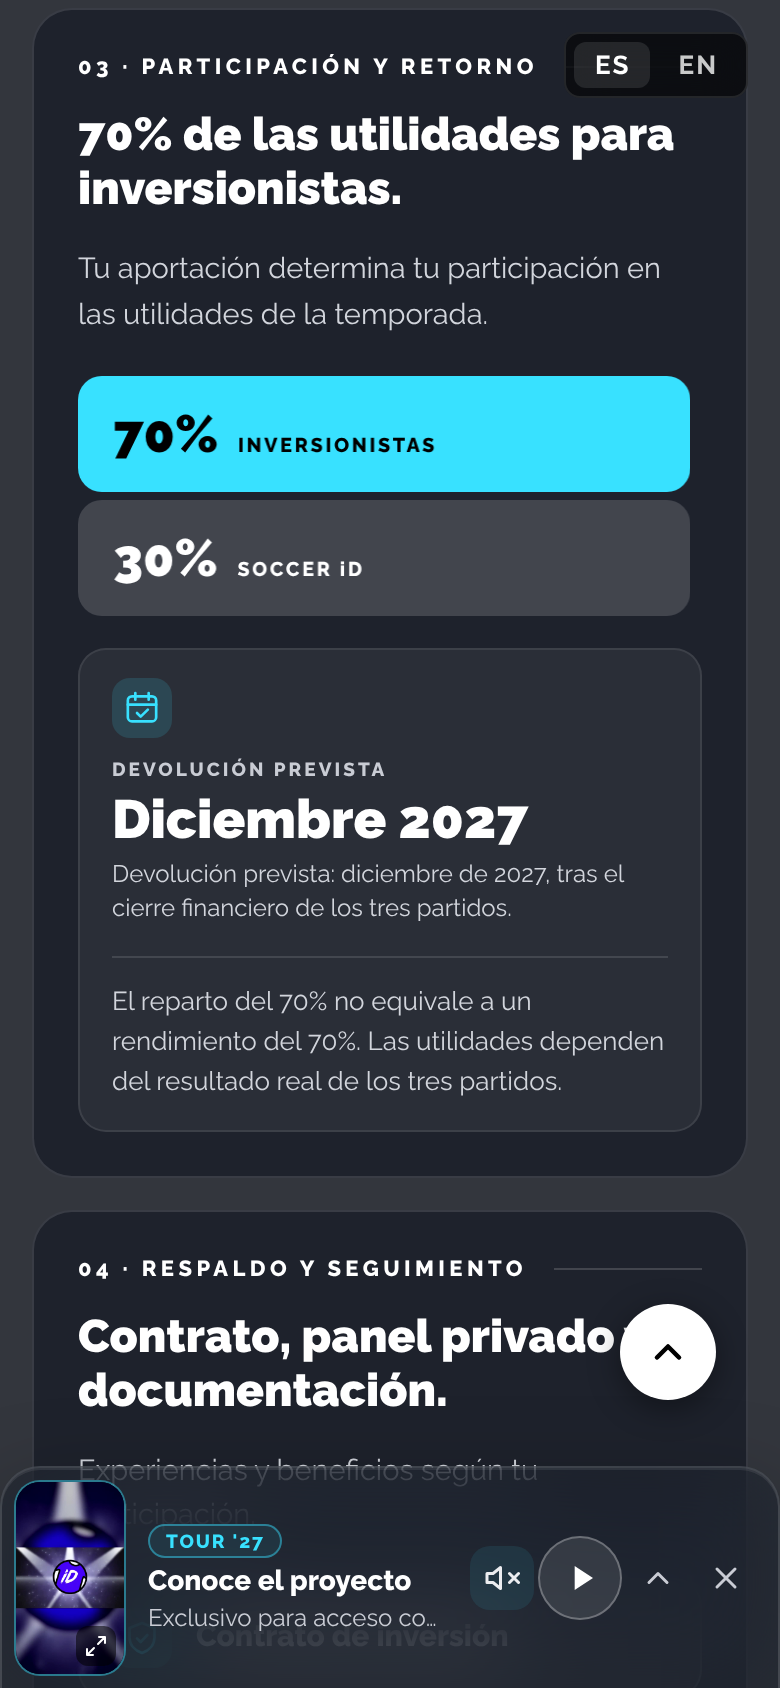
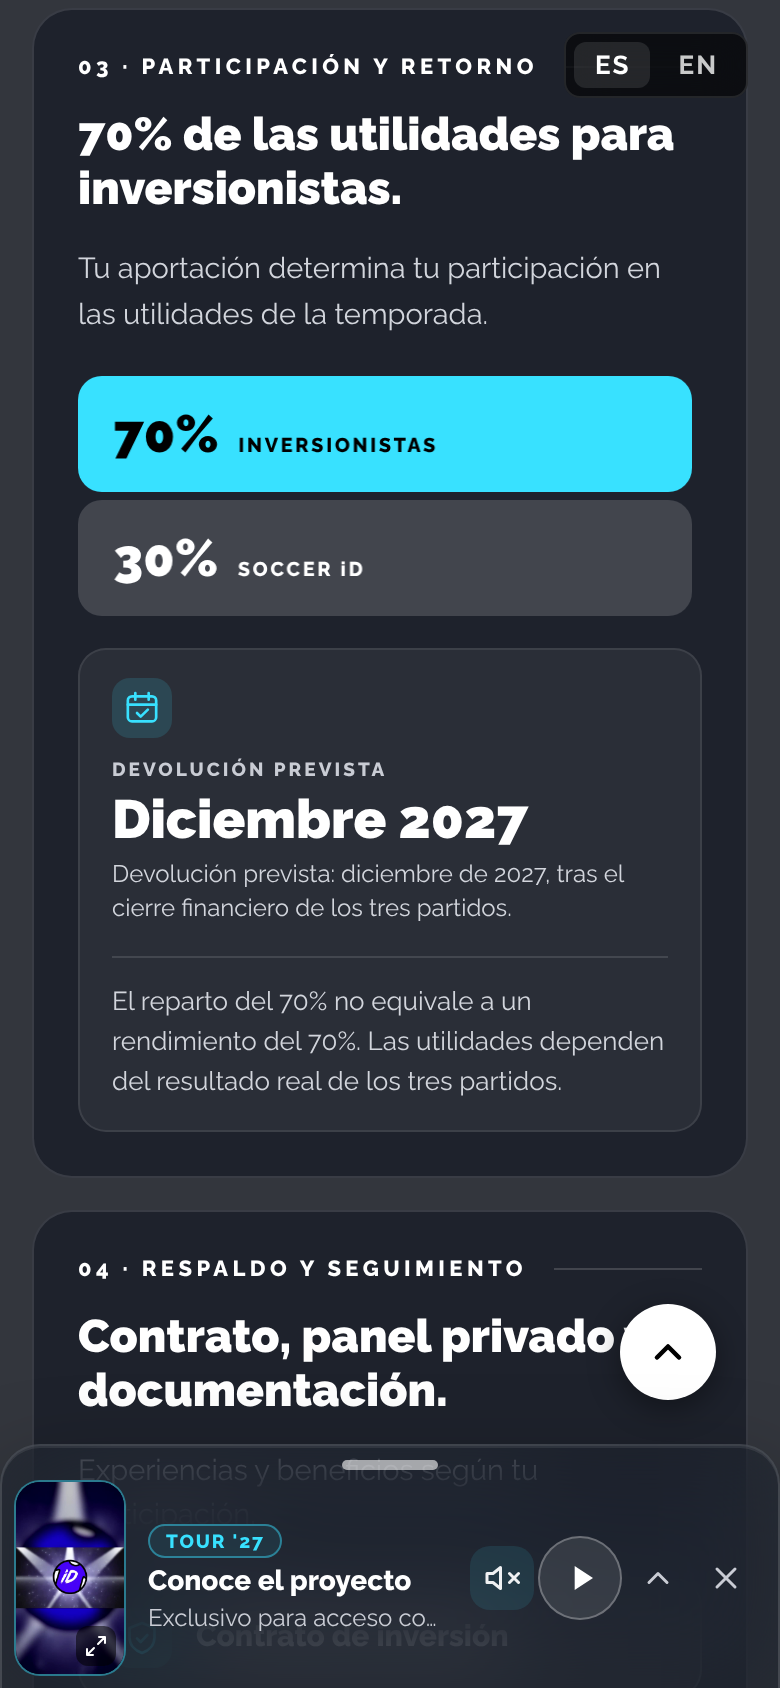
feat(tour): gestos táctiles y barra de arrastre en el reproductor (celular)
Deslizar hacia arriba sobre la card avanza una etapa y hacia abajo la
baja, con la card siguiendo al dedo con freno y un umbral de 44 px. Arriba
va una barra de arrastre a lo ancho, como en las hojas de iOS, que se jala
o se toca. En la barra de progreso el dedo busca en el video.

Claude-Session: https://claude.ai/code/session_01TBS5J98YBvjYTTdc9XtUtE

diff --git a/docs/pendientes.md b/docs/pendientes.md
@@ -30,6 +30,11 @@ pastilla y una línea cian de avance al pie de la card cerrada.
   de arriba.
 - Maximizado: a toda la ventana, fondo negro, video contenido; cabeza con
   título y botón de restaurar; barra abajo. Escape baja una etapa.
+- **Gestos en celular**: deslizar hacia arriba sobre la card avanza una etapa
+  y hacia abajo la baja (umbral de 44 px; la card sigue al dedo con freno).
+  Hay una **barra de arrastre** arriba de la card (48 × 5, franja de toque de
+  22 px), como en las hojas de iOS: se jala con el dedo o se toca. En la barra de
+  progreso el dedo busca en el video, no cambia de etapa.
 - Un solo `<video>` para las tres etapas: cambia la clase, no el DOM, y la
   reproducción no se corta. Arranca **en silencio** (el navegador no permite
   audio sin gesto); el sonido entra con el botón que late o al desplegar.
